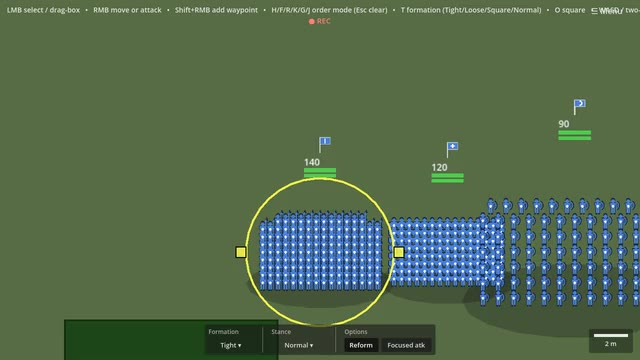
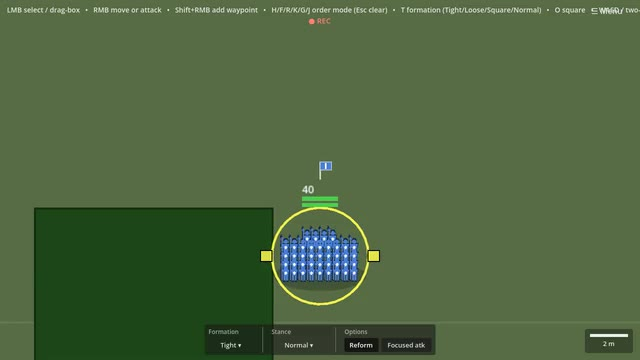
Deploying to gh-pages from @ Lacaedemon/sparta@8bd6bb2aa7c1af910059de89fe173a8b899fbabb 🚀

diff --git a/how-to-play.html b/how-to-play.html
@@ -655,14 +655,15 @@ ul.task-list li input[type="checkbox"] {
   </video>
   <figcaption>Arrow-key nudges: the selected regiment side-steps left, then right, then back-steps --- each a small step that holds its facing.</figcaption>
 </figure>
-<p><strong>Centre pivot (larger turns).</strong> A move order that turns a unit toward a new heading makes it <strong>pivot about its centre</strong> there gradually rather than snapping — it turns toward its travel direction in good order as it sets off. When the heading change is sharp, the unit <strong>pivots before it advances</strong>: it nearly halts, comes onto its new facing, then marches. For a destination directly <strong>behind</strong> the unit this is a 180° centre pivot — the whole regiment turns around to face where it is going and then steps off, instead of sliding backwards. (That is distinct from the standing <strong>about-face</strong> drill on <kbd>V</kbd> below, where each soldier turns in place and the block never rotates.) So a unit always marches facing its destination, and never reverses into it. (A chasing or charging unit still turns instantly — the gradual pivot is for your own move orders, where order matters more than the last fraction of a second.)</p>
+<p><strong>Centre pivot (larger turns).</strong> A move order that turns a unit toward a new heading makes it <strong>pivot about its centre</strong> there gradually rather than snapping — it turns toward its travel direction in good order as it sets off. When the heading change is sharp, the unit <strong>pivots before it advances</strong>: it nearly halts, comes onto its new facing, then marches. So a unit always marches facing its destination, and never reverses into it. (A chasing or charging unit still turns instantly — the gradual pivot is for your own move orders, where order matters more than the last fraction of a second.)</p>
+<p><strong>Move to the rear (about-face, then march).</strong> A move order to a destination roughly <strong>behind</strong> the unit (more than 135° off its facing) is not a centre pivot at all: the regiment first performs the standing <strong>about-face</strong> (<em>conversio</em>, below) — every soldier reverses 180° where they stand, the front rank becoming the rear rank man-for-man — and then marches to the destination facing it. The block keeps its footprint the whole time rather than swinging the whole line round about its centre, so a unit sent to the rear turns about cleanly and steps off, never sliding backwards.</p>
 <figure class="demo figure">
   <video class="demo-video" controls="" muted="" loop="" playsinline="" preload="metadata" poster="media/about_face.jpg">
     <source src="media/about_face.mp4" type="video/mp4">
     Your browser can't play this clip --- see the
     <a href="https://github.com/Lacaedemon/sparta">repository</a> to run the game.
   </video>
-  <figcaption>Centre pivot (180°): ordered to a point behind it, the regiment pivots in good order to face the destination, then marches off.</figcaption>
+  <figcaption>Move to the rear: ordered to a point behind it, the regiment about-faces in place (each soldier reversing 180°) and then marches off facing the destination.</figcaption>
 </figure>
 <p><strong>About-face in place (conversio, <kbd>V</kbd>).</strong> Press <kbd>V</kbd> with a unit selected to issue the <em>conversio</em>: every soldier reverses 180° where they stand — the file/rank grid stays put, the front rank becomes the rear rank man-for-man, and the unit is now facing the other way. Unlike the gradual <strong>centre pivot</strong> that accompanies a move order (which rotates the whole block around its centre as it marches), the conversio is a standing drill command: no one takes a step. Use it to face a threat behind the line without marching first, or to quickly reorient a reserve before it moves up.</p>
 <p><strong>Quarter-turn in place (<kbd>Q</kbd> / <kbd>E</kbd>).</strong> Press <kbd>Q</kbd> to turn the selected unit a quarter-turn left, or <kbd>E</kbd> to turn it right: every soldier pivots 90° where they stand. No one marches and the grid of men does not reorganize — they simply face the new way, so the block now presents its <strong>short edge</strong> as its frontage (its frontage and depth swap relative to the facing, without anyone moving). Like the conversio, it is a standing facing change. Use it to throw a fresh face toward a flank, or as the first step of marching off to the side in good order.</p>